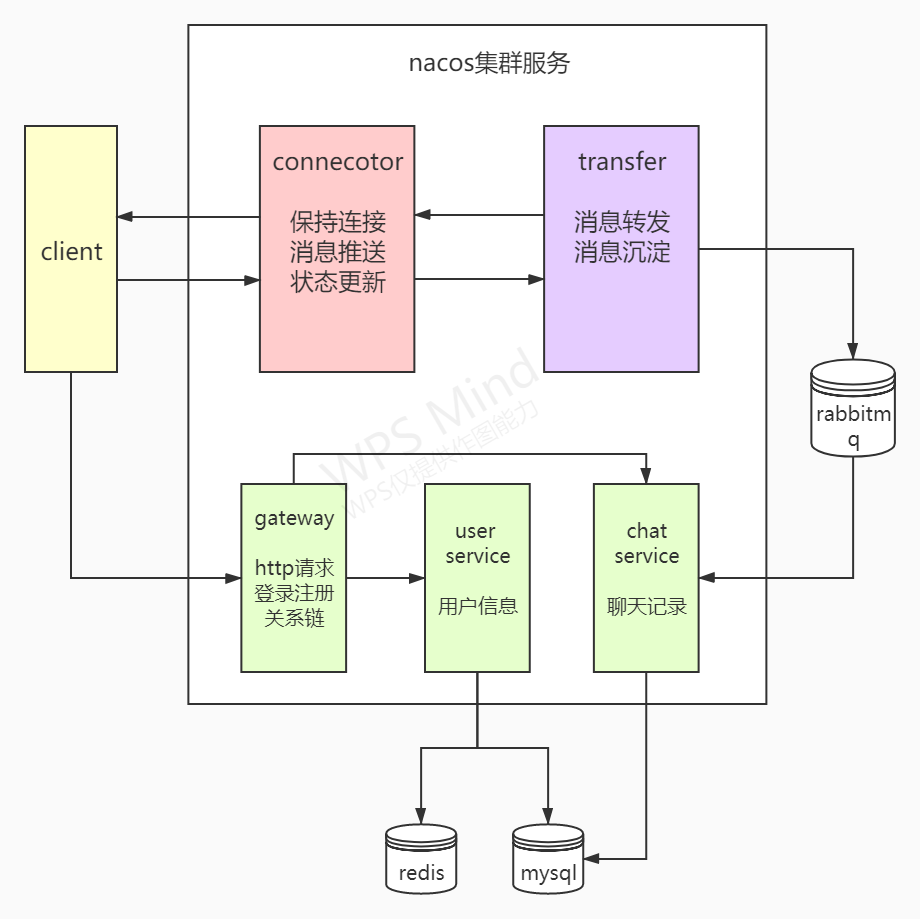
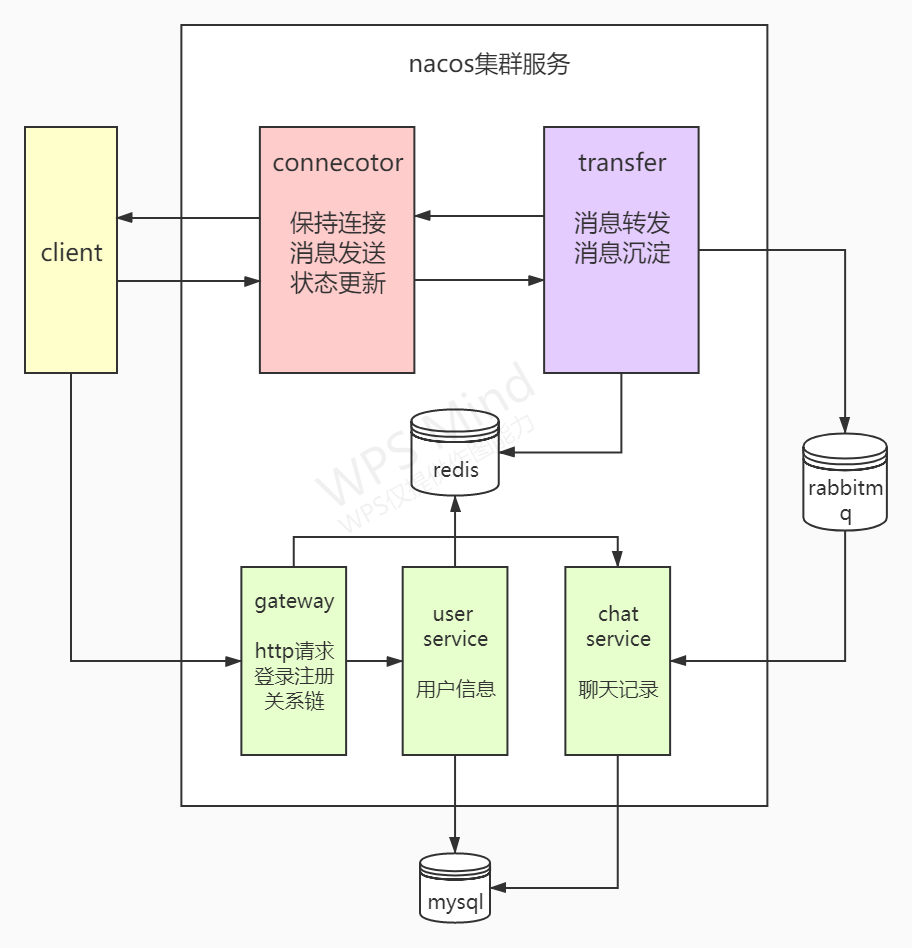
完善网关

diff --git a/common/src/main/java/com/mountain/common/eums/MsgTypeEnum.java b/common/src/main/java/com/mountain/common/eums/MsgTypeEnum.java
@@ -1,0 +1,52 @@
+package com.mountain.common.eums;
+
+import lombok.Getter;
+
+import java.util.Arrays;
+
+/**
+ * 回执数据格式ACK，默认已发送，0：sent（已发送），1：delivered（已送达）, 2：read（已读）
+ *
+ * @author kejiefu
+ * @Description TODO
+ * @Date 2021/1/18 21:01
+ * @Created by kejiefu
+ */
+@Getter
+public enum MsgTypeEnum {
+
+    /**
+     * 0：sent（已发送）
+     */
+    SENT(0, "已发送"),
+
+    /**
+     * 1：delivered（已送达）
+     */
+    DELIVERED(1, "已送达"),
+
+    /**
+     * 2：read（已读）
+     */
+    READ(2, "已读");
+
+    /**
+     * code
+     */
+    private final Integer code;
+
+    /**
+     * name
+     */
+    private final String name;
+
+    MsgTypeEnum(int code, String name) {
+        this.code = code;
+        this.name = name;
+    }
+
+    public static MsgTypeEnum getEnum(int code) {
+        return Arrays.stream(values()).filter(x -> x.code.equals(code)).findFirst().orElse(null);
+    }
+
+}

diff --git a/user-service/src/main/java/com/mountain/user/service/service/impl/UserServiceImpl.java b/user-service/src/main/java/com/mountain/user/service/service/impl/UserServiceImpl.java
@@ -38,7 +38,7 @@ public class UserServiceImpl extends ServiceImpl<UserMapper, User> implements Us
     @Override
     public Result<Boolean> register(String username, String password) {
         User user = new User();
-        user.setId(SequenceUtils.getIdStr());
+        user.setId(SequenceUtils.getId());
         user.setUsername(username);
         user.setPassword(password);
         user.setStatus(UserStatusEnum.YES.getCode());
@@ -67,6 +67,8 @@ public class UserServiceImpl extends ServiceImpl<UserMapper, User> implements Us
             updateWrapper.lambda().set(User::getOnlineStatus, OnlineStatusEnum.YES.getCode());
             updateWrapper.lambda().eq(User::getId, user.getId());
             this.update(updateWrapper);
+            //更新用户的redis状态
+
             return Result.success(String.valueOf(user.getId()));
         }
         return Result.fail(ReturnCode.INCORRECT_ACCOUNT_PASSWORD);

diff --git a/chat-service/src/main/java/com/mountain/chat/service/listener/ChatRecordListener.java b/chat-service/src/main/java/com/mountain/chat/service/listener/ChatRecordListener.java
@@ -6,6 +6,7 @@ import com.mountain.chat.service.entity.ChatRecord;
 import com.mountain.chat.service.listener.core.Action;
 import com.mountain.chat.service.listener.core.MessageBody;
 import com.mountain.chat.service.service.ChatRecordService;
+import com.mountain.common.eums.MsgTypeEnum;
 import com.rabbitmq.client.Channel;
 import lombok.extern.slf4j.Slf4j;
 import org.springframework.amqp.core.Message;
@@ -46,6 +47,7 @@ public class ChatRecordListener {
             MessageBody messageBody = MessageBody.getMessageBody(message);
             log.info("接收到消息Body：{}", messageBody.toString());
             ChatRecord chatRecord = MessageBody.getMessageData(message, ChatRecord.class);
+            chatRecord.setMsgType(MsgTypeEnum.SENT.getCode());
             log.info("接收到消息Data：{}", chatRecord.toString());
             recordService.save(chatRecord);
         } catch (Exception e) {

diff --git a/chat-service/src/test/java/com/mountain/chat/service/listener/ChatRecordListenerTest.java b/chat-service/src/test/java/com/mountain/chat/service/listener/ChatRecordListenerTest.java
@@ -28,13 +28,13 @@ public class ChatRecordListenerTest extends ApplicationTest {
     @Test
     public void consume() {
         ChatRecord chatRecord = new ChatRecord();
-        String id = String.valueOf(SequenceUtils.getId());
+        long id = SequenceUtils.getId();
         //消息唯一ID
         CorrelationData correlationData = new CorrelationData(id + "");
         chatRecord.setId(id);
-        chatRecord.setContent("我是来测试的呢");
-        chatRecord.setUserId("1");
-        chatRecord.setToUserId("2");
+        chatRecord.setMsg("我是来测试的呢");
+        chatRecord.setUserId(1L);
+        chatRecord.setToUserId(2L);
         MessageBody messageBodyDto = new MessageBody();
         messageBodyDto.setCreateTime(DateUtil.format(new Date(), DatePattern.NORM_DATETIME_FORMAT));
         messageBodyDto.setData(chatRecord);

diff --git a/im-transfer/src/test/java/com/mountain/im/transfer/service/impl/ChatRecordServiceImplTest.java b/im-transfer/src/test/java/com/mountain/im/transfer/service/impl/ChatRecordServiceImplTest.java
@@ -7,8 +7,6 @@ import org.junit.Test;
 
 import javax.annotation.Resource;
 
-import static org.junit.Assert.*;
-
 /**
  * @author kejiefu
  * @Description TODO
@@ -24,9 +22,9 @@ public class ChatRecordServiceImplTest extends ApplicationTest {
     public void sendChatRecord() {
         for (int i = 0; i < 5; i++) {
             ChatRecordDto chatRecordDto = new ChatRecordDto();
-            chatRecordDto.setContent("我是来测试的呢");
-            chatRecordDto.setUserId("1");
-            chatRecordDto.setToUserId("2");
+            chatRecordDto.setMsg("我是来测试的呢");
+            chatRecordDto.setUserId(1L);
+            chatRecordDto.setToUserId(2L);
             chatRecordService.sendChatRecord(chatRecordDto);
         }
     }

diff --git a/chat-service/src/test/java/com/mountain/chat/service/service/impl/ChatRecordServiceImplTest.java b/chat-service/src/test/java/com/mountain/chat/service/service/impl/ChatRecordServiceImplTest.java
@@ -25,10 +25,10 @@ public class ChatRecordServiceImplTest extends ApplicationTest {
     public void testSave() {
         for (long i = 1; i <= 20; i++) {
             ChatRecord chatRecord = new ChatRecord();
-            chatRecord.setId(SequenceUtils.getIdStr());
-            chatRecord.setContent(String.valueOf(System.currentTimeMillis()));
-            chatRecord.setUserId(String.valueOf(i));
-            chatRecord.setToUserId("2");
+            chatRecord.setId(SequenceUtils.getId());
+            chatRecord.setMsg(String.valueOf(System.currentTimeMillis()));
+            chatRecord.setUserId(i);
+            chatRecord.setToUserId(2L);
             chatRecordService.save(chatRecord);
         }
     }

diff --git a/chat-service/src/main/java/com/mountain/chat/service/entity/ChatRecord.java b/chat-service/src/main/java/com/mountain/chat/service/entity/ChatRecord.java
@@ -15,20 +15,26 @@ public class ChatRecord extends BaseEntity {
     /**
      * 主键
      */
-    private String id;
+    private Long id;
     /**
      * 用户id
      */
-    private String userId;
+    private Long userId;
 
     /**
      * 接收话的用户id
      */
-    private String toUserId;
+    private Long toUserId;
+
     /**
-     * 内容
+     * 聊天消息
      */
-    private String content;
+    private String msg;
+
+    /**
+     * 回执数据格式ACK，默认已发送，0：sent（已发送），1：delivered（已送达）, 2：read（已读）
+     */
+    private Integer msgType;
 
 
 }

diff --git a/im-transfer/src/main/java/com/mountain/im/transfer/dto/ChatRecordDto.java b/im-transfer/src/main/java/com/mountain/im/transfer/dto/ChatRecordDto.java
@@ -13,20 +13,20 @@ public class ChatRecordDto {
     /**
      * 主键
      */
-    private String id;
+    private Long id;
     /**
      * 用户id
      */
-    private String userId;
+    private Long userId;
 
     /**
      * 接收话的用户id
      */
-    private String toUserId;
+    private Long toUserId;
     /**
-     * 内容
+     * 聊天消息
      */
-    private String content;
+    private String msg;
 
 
 }

diff --git a/chat-service/src/main/java/com/mountain/chat/service/util/SequenceUtils.java b/chat-service/src/main/java/com/mountain/chat/service/util/SequenceUtils.java
@@ -17,8 +17,5 @@ public class SequenceUtils {
         return sequence.nextId();
     }
 
-    public static String getIdStr() {
-        return String.valueOf(sequence.nextId());
-    }
 
 }

diff --git a/user-service/src/main/java/com/mountain/user/service/util/SequenceUtils.java b/user-service/src/main/java/com/mountain/user/service/util/SequenceUtils.java
@@ -17,8 +17,5 @@ public class SequenceUtils {
         return sequence.nextId();
     }
 
-    public static String getIdStr() {
-        return String.valueOf(sequence.nextId());
-    }
 
 }

diff --git a/user-service/src/main/java/com/mountain/user/service/enitty/User.java b/user-service/src/main/java/com/mountain/user/service/enitty/User.java
@@ -16,7 +16,7 @@ public class User extends BaseEntity {
     /**
      * 用户id
      */
-    private String id;
+    private Long id;
 
     /**
      * 用户名

diff --git a/README.md b/README.md
@@ -20,3 +20,7 @@ gateway：网关，处理http信息，例如注册，登录，查询聊天记录
 user-service：用户信息
 
 chat-service：存储聊天信息，查询聊天信息，分库分表
+
+rabbitmq：解耦聊天的信息存储
+
+redis：存储用户当前在线状态与对应的connector地址
